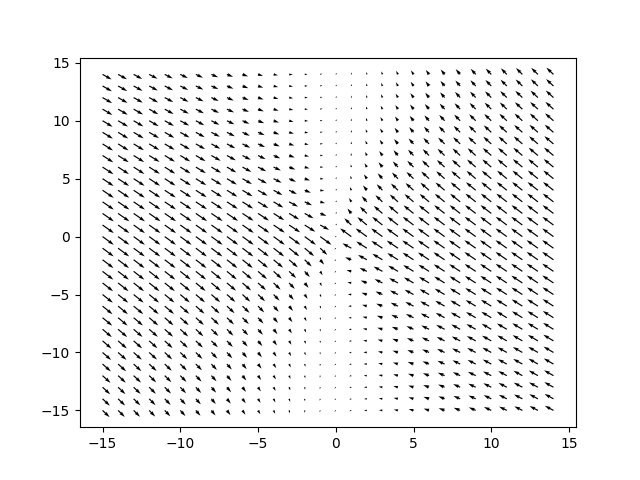
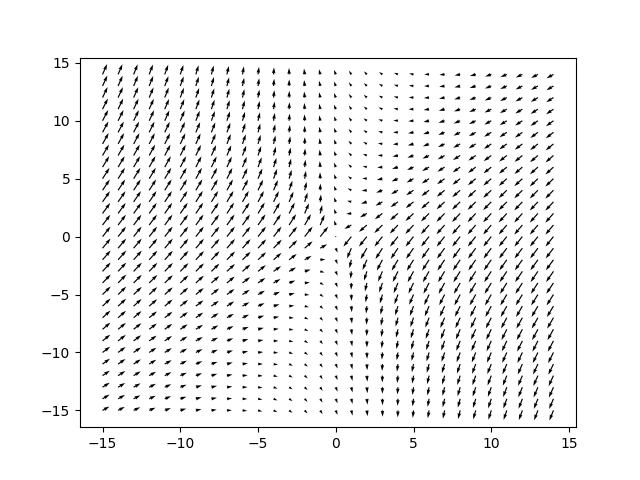
antiferro

Changed region(s): [[0.1562, 0.125, 0.875, 0.875], [0.5, 0.7812, 0.5312, 0.8125], [0.5, 0.6875, 0.5312, 0.7188]]

diff --git a/scripts/gif.py b/scripts/gif.py
@@ -3,8 +3,8 @@ import matplotlib.pyplot as plt
 import matplotlib.animation as animation
 from scipy.ndimage import convolve
 
-n = 100
-alpha = 1
+n = 30
+alpha = -1
 beta = 1
 gamma = 1
 dt = 1e-1
@@ -89,7 +89,7 @@ def update(frame):
     if frame == len(temps)//(2 * cycles_per_frame):
         beta = 0
 
-    n_neighbors = 5
+    n_neighbors = 6
     x_average = convolve(x, np.ones((n_neighbors, n_neighbors)) / n_neighbors**2, mode='wrap')
     y_average = convolve(y, np.ones((n_neighbors, n_neighbors)) / n_neighbors**2, mode='wrap')
 

diff --git a/README.md b/README.md
@@ -1,1 +1,3 @@
 # XY Model
+
+![images/spin_quiver100.gif](images/spin_quiver100.gif)
